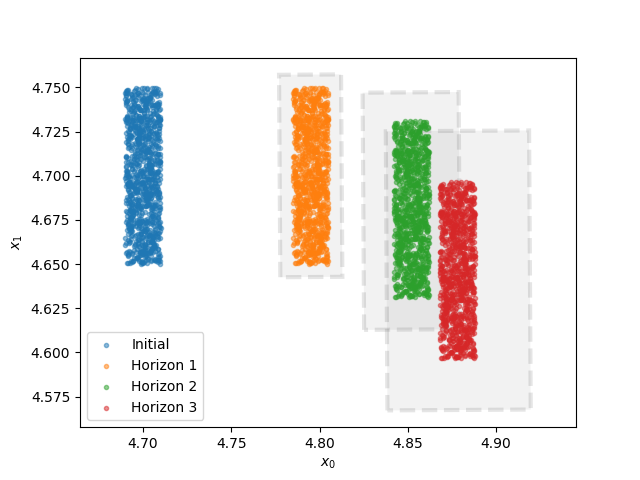
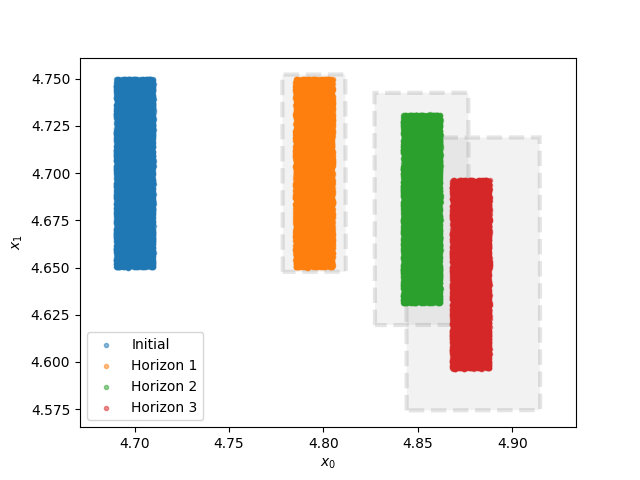
updatedLipshitz plus virtual branching

diff --git a/run.py b/run.py
@@ -79,7 +79,7 @@ def solveSingleStepReachability(pcaDirections, imageData, config, iteration, dev
     pgdStepSize = config['pgdStepSize']
     spaceOutThreshold = config['spaceOutThreshold']
     dim = network.Linear[0].weight.shape[1]
-
+    totalNumberOfBranches = 0
     for i in range(len(pcaDirections)):
         previousLipschitzCalculations = []
         if i % 2 == 1 and torch.allclose(pcaDirections[i], -pcaDirections[i - 1]):
@@ -111,14 +111,15 @@ def solveSingleStepReachability(pcaDirections, imageData, config, iteration, dev
         lowerBound, upperBound, space_left = BB.run()
         plottingConstants[i] = -lowerBound
         calculatedLowerBoundsforpcaDirections[i] = lowerBound
-        print(BB.numberOfBranches)
-        compare memory usage :))))
+        totalNumberOfBranches += BB.numberOfBranches
+
         print('Best lower/upper bounds are:', lowerBound, '->', upperBound)
+    return totalNumberOfBranches
 
 
 def main():
     configFolder = "Config/"
-    fileName = "doubleIntegrator"
+    fileName = "quadRotor"
     configFileToLoad = configFolder + fileName + ".json"
 
     with open(configFileToLoad, 'r') as file:
@@ -181,7 +182,7 @@ def main():
 
     plottingData = {}
 
-    inputData = (upperCoordinate - lowerCoordinate) * torch.rand(1000, dim, device=device) \
+    inputData = (upperCoordinate - lowerCoordinate) * torch.rand(10000, dim, device=device) \
                                                         + lowerCoordinate
     if verboseMultiHorizon:
         fig, ax = plt.subplots()
@@ -190,7 +191,7 @@ def main():
     plottingData[0] = {"exactSet": inputData}
 
     startTime = time.time()
-
+    totalNumberOfBranches = 0
     for iteration in range(finalHorizon):
         inputDataVariable = Variable(inputData, requires_grad=False)
         with no_grad():
@@ -214,9 +215,10 @@ def main():
         pcaDirections = torch.Tensor(np.array(pcaDirections))
         calculatedLowerBoundsforpcaDirections = torch.Tensor(np.zeros(len(pcaDirections)))
 
-        solveSingleStepReachability(pcaDirections, imageData, config, iteration, device, network,
+        t1 = solveSingleStepReachability(pcaDirections, imageData, config, iteration, device, network,
                                     plottingConstants, calculatedLowerBoundsforpcaDirections,
                                     originalNetwork, horizonForLipschitz, lowerCoordinate, upperCoordinate)
+        totalNumberOfBranches += t1
 
         if finalHorizon > 1:
             rotation = nn.Linear(dim, dim)
@@ -291,7 +293,7 @@ def main():
     endTime = time.time()
 
     print('The algorithm took (s):', endTime - startTime, 'with eps =', eps)
-
+    print("Total number of branches: {}".format(totalNumberOfBranches))
     torch.save(plottingData, "Output/reachLip" + fileName)
     return endTime - startTime
 

diff --git a/Bounding/LipschitzBound.py b/Bounding/LipschitzBound.py
@@ -93,6 +93,13 @@ class LipschitzBounding:
                          for _ in range(self.numberOfVirtualBranches)]
             newUppers = [inputUpperBound[i, :].clone() for i in range(batchSize)
                          for _ in range(self.numberOfVirtualBranches)]
+            virtualBranchLipschitz = None
+            if extractedLipschitzConstants is not None:
+                virtualBranchLipschitz =\
+                    torch.zeros(self.numberOfVirtualBranches * extractedLipschitzConstants.shape[0]).to(self.device)
+                for i in range(batchSize):
+                    virtualBranchLipschitz[self.numberOfVirtualBranches * i: self.numberOfVirtualBranches * (i +1)] =\
+                        extractedLipschitzConstants[i]
             for i in range(batchSize):
                 for j in range(self.numberOfVirtualBranches):
                     newUppers[self.numberOfVirtualBranches * i + j][maxIndices[i]] = \
@@ -105,7 +112,8 @@ class LipschitzBounding:
             newUppers = torch.vstack(newUppers)
             self.pauseTime(timer, "lowerBound:virtualBranchPreparation")
 
-            virtualBranchLowerBoundsExtra = self.lowerBound(queryCoefficient, newLowers, newUppers, False, timer=timer)
+            virtualBranchLowerBoundsExtra = self.lowerBound(queryCoefficient, newLowers, newUppers, False, timer=timer,
+                                                            extractedLipschitzConstants=virtualBranchLipschitz)
             self.startTime(timer, "lowerBound:virtualBranchMin")
 
             virtualBranchLowerBounds = torch.Tensor([torch.min(
@@ -406,6 +414,7 @@ class LipschitzBounding:
         numberOfNeurons = sum([self.weights[i].shape[0] for i in range(len(self.weights) - 1)])
         alpha = np.zeros((numberOfNeurons, 1))
         beta = np.ones((numberOfNeurons, 1))
+
         assert inputLowerBound.shape[0] == 1
         lowerBounds, upperBounds = self.propagateBoundsInNetwork(inputLowerBound[0, :].cpu().numpy(),
                                                                  inputUpperBound[0, :].cpu().numpy(),

diff --git a/Config/ConfigGenerator.py b/Config/ConfigGenerator.py
@@ -4,7 +4,7 @@ import numpy as np
 
 
 def main():
-    fileName = "robotArm"
+    fileName = "unicycle"
     eps = 0.01
     verbose = 0
     verboseMultiHorizon = 1
@@ -17,7 +17,7 @@ def main():
     useTwoNormDilation = False
     useSdpForLipschitzCalculation = True
     lipschitzSdpSolverVerbose = False
-    finalHorizon = 1
+    finalHorizon = 5
     initialGD = False
     performMultiStepSingleHorizon = False
     plotProjectionsOfHigherDims = True
@@ -30,9 +30,10 @@ def main():
     pgdNumberOfInitializations = 1
     pgdStepSize = 0.5
 
-    A = None
-    B = None
-    c = None
+    # A = None
+    # B = None
+    # c = None
+
     # dt = None
     # if fileName == "doubleIntegrator.pth" or fileName == "doubleIntegrator_reachlp.pth":
     # A = torch.Tensor([[1, 1], [0, 1]])
@@ -72,11 +73,16 @@ def main():
     # upperCoordinate = torch.Tensor([4.8, 4.9, 3.1, 0.96, 0.001, 0.001])
 
     # elif fileName == "RobotArmStateDict2-50-2.pth":
-    lowerCoordinate = torch.Tensor([np.pi / 3., np.pi / 3.])
-    upperCoordinate = torch.Tensor([2 * np.pi / 3., 2 * np.pi / 3.])
+    # lowerCoordinate = torch.Tensor([np.pi / 3., np.pi / 3.])
+    # upperCoordinate = torch.Tensor([2 * np.pi / 3., 2 * np.pi / 3.])
 
+    A = torch.eye(2)
+    B = torch.eye(2)
+    c = torch.tensor([0])
+    lowerCoordinate = -torch.ones(2)
+    upperCoordinate = torch.ones(2)
 
-    pathToStateDictionary = "Networks/" + "RobotArmStateDict2-50-2" + ".pth"
+    pathToStateDictionary = "Networks/" + "unicycle" + ".pth"
 
     configDictionary = {
         "eps": eps,

diff --git a/BranchAndBound.py b/BranchAndBound.py
@@ -74,7 +74,7 @@ class BranchAndBound:
                               ])
         self.numberOfBranches = 0
         self.spaceOutThreshold = spaceOutThreshold
-        self.lipschitzUpdateDepths = [4]
+        self.lipschitzUpdateDepths = [0]
 
     def prune(self):
         for i in range(len(self.spaceNodes) - 1, -1, -1):
